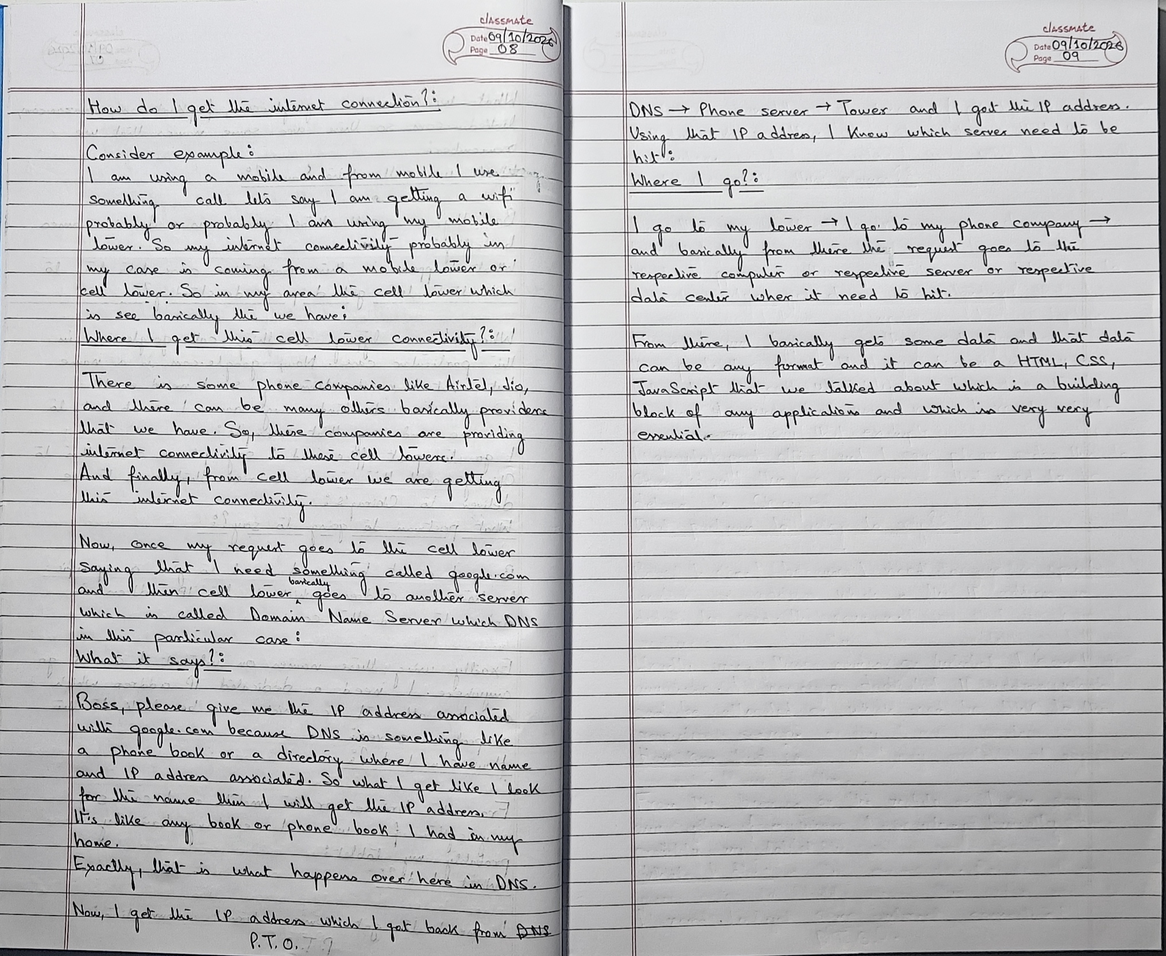
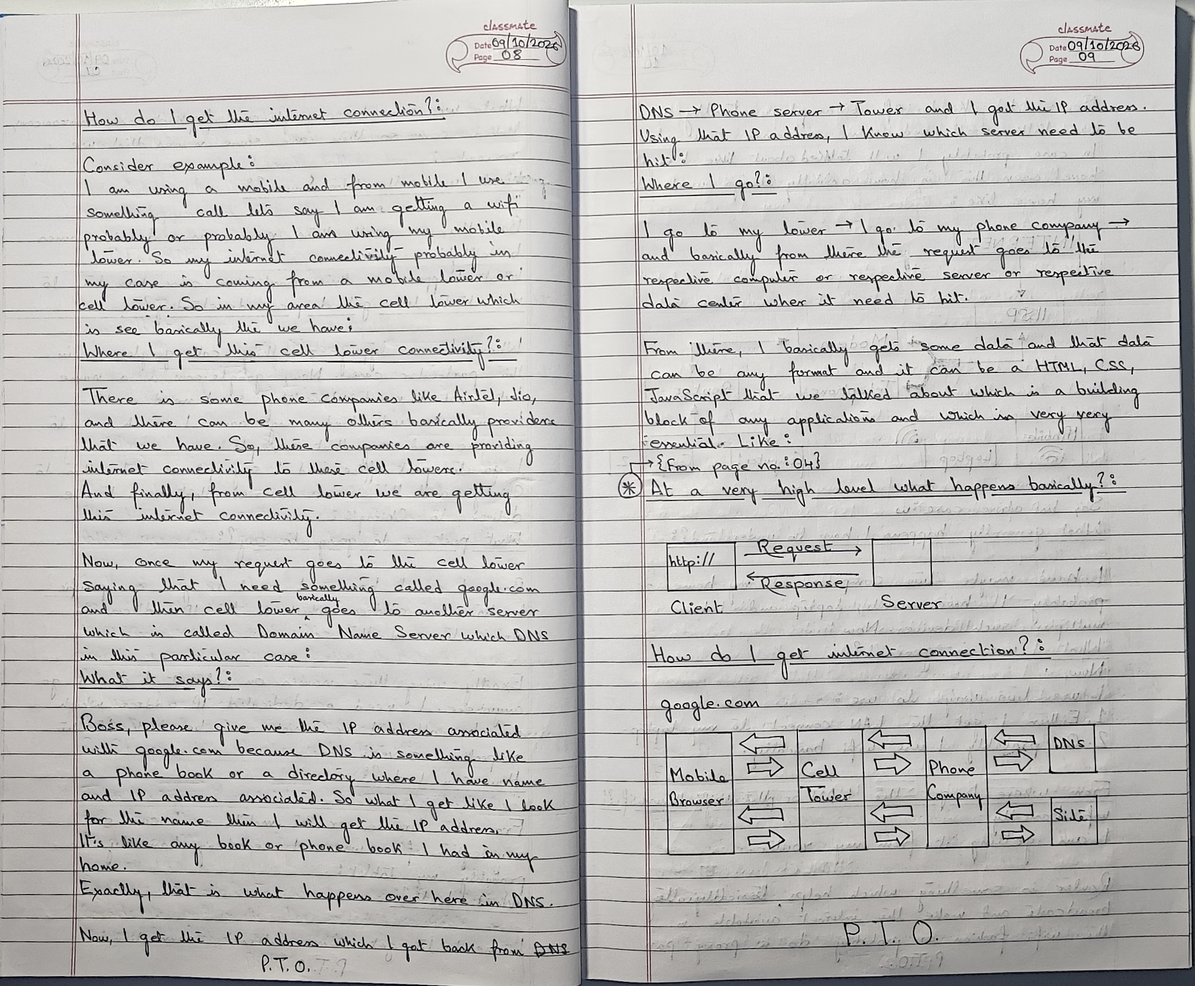
Expand web networking notes and add scans
Add notebook scans for pages 10–15, update page 8–9, and extend the web-how-it-works notes with explanations of mobile and home network connectivity, DNS, request flow, and wired networks.

Changed region(s): [[0.0, 0.0, 1.0, 1.0], [0.2172, 0.0, 0.3103, 0.0312]]

diff --git a/src/networking/how-the-web-works/README.md b/src/networking/how-the-web-works/README.md
@@ -255,3 +255,167 @@ Using that IP address, I know which server needs to be hit.
 I go to my tower → I go to my phone company → and basically from there the request goes to the respective computer or respective server or respective data center where it needs to hit.
 
 From there, I basically get some data and that data can be any format and it can be a HTML, CSS, JavaScript that we talked about, which is a building block of any application and which is very, very essential.
+
+### Example: using a mobile phone
+
+Suppose I am using a mobile phone and getting Wi-Fi, or using my mobile tower. My internet connectivity may be coming from a mobile tower or cell tower.
+
+### Where do I get this cell-tower connectivity?
+
+There are phone companies like Airtel, Jio, and many others. These companies provide internet connectivity to cell towers. Finally, we get internet connectivity from the cell tower.
+
+When my request goes to the cell tower, it says that it needs something from `google.com`. The cell tower sends the request to another server called the **Domain Name Server (DNS)**.
+
+### What does DNS say?
+
+“Boss, please give me the IP address associated with `google.com`.”
+
+DNS is like a phone book or directory where a name and its IP address are associated. When I look up a name, I get its IP address, just as I might look up a name in a book or phone book at home.
+
+That is exactly what happens with DNS. I get the IP address back from DNS.
+
+The DNS returns an IP address. Using that IP address, I know which server needs to be hit.
+
+### Where does the request go?
+
+I go to my tower → my phone company → the respective computer/server or data centre that the request needs to reach.
+
+From there, I get some data. That data can be in any format, such as HTML, CSS, or JavaScript. These are building blocks of an application and are essential.
+
+### At a very high level, what happens?
+
+The diagram shows:
+
+- **Client** sends a **Request** to the **Server**.
+- **Server** sends a **Response** back to the **Client**.
+- The client URL is represented as `http://`.
+
+### How do I get an internet connection?
+
+For `google.com`, the illustrated path is:
+
+`Mobile Browser ⇄ Cell Tower ⇄ Phone Company ⇄ DNS`
+
+The diagram also shows the DNS and the site/server, with arrows indicating requests and responses travelling between the mobile browser, cell tower, phone company, DNS, and site.
+
+Similar examples can be discussed, including more advanced cases. This is how things might work at home.
+
+### Home network diagram
+
+```text
+INTERNET
+   |
+  ISP
+   |
+   +---- Modem ---- Router
+   |                  |
+Telephone             +---- Computer 1
+                      +---- Computer 2
+                      +---- Laptop (Wi-Fi)
+                      +---- Mobile (Wi-Fi)
+```
+
+### What generally happens?
+
+I may have two computers at home, or a mobile, laptop, and multiple other devices.
+
+### What do I use in general?
+
+I use two ways to connect:
+
+1. I connect my laptop using a **LAN** connection.
+2. Or I use **Wi-Fi**.
+
+### Where do I get the LAN or Wi-Fi connection?
+
+I get it from my **router**.
+
+A router helps broadcast and make the internet available through Wi-Fi, or it may perform a proxy-related function, as noted in the notebook.
+
+Using the LAN, I can access my laptops or computers, provided they are connected properly.
+
+Nowadays, I can get a direct **fiber-optic cable** from my operator, such as Jio, Airtel, etc., which provides fiber-optic connectivity at home.
+
+### How did internet connectivity work earlier?
+
+Earlier, people got internet through telephone wires. A telephone wire had to be available at home.
+
+### What were telephone wires used to do?
+
+Something had to convert the telephone-line signal into an internet signal. That device was called a **modem**.
+
+A modem was used to convert the telephone-line signal coming from the phone line into internet connectivity.
+
+Ultimately, the phone wires were provided by a service provider — the **Internet Service Provider (ISP)**. The phone company is not the internet itself; the ISP provides internet service.
+
+From the ISP, I can access the internet, reach DNS, reach a specific IP address, and reach the respective places depending on what I am using.
+
+### At a high level, what happens when I type `google.com` or `flipkart.com`?
+
+These are the previous steps that happen in order to get my first web page rendered.
+
+Now, let’s dig deeper into the process and understand how the web works.
+
+### Request path
+
+The notebook describes this flow:
+
+1. From my laptop, the request goes to my router.
+2. From my router, it goes to the ISP.
+3. From the ISP, it goes to the Domain Name Server (DNS).
+4. The DNS returns the IP address.
+5. The ISP and network path carry the request toward the destination/server, using the respective IP address to reach the appropriate server.
+6. The server sends back the page and the required resources.
+7. Finally, the page is rendered in my application.
+
+The diagram is:
+
+```text
+Client ⇄ Router ⇄ ISP ⇄ Server
+                 ↕ DNS
+
+Server → Webpage {HTML, CSS, JavaScript}
+       → Computer, Laptop, Tablet & Phone
+```
+
+The response contains HTML, CSS, JavaScript, and other resources needed to render the page.
+
+### What does “between” mean?
+
+A lot of things happen between my computer and my router, from my router to my ISP, and from my ISP to DNS.
+
+### What do I get back from the server?
+
+I get HTML, CSS, and JavaScript. These are building blocks, along with many other things. The combination of these resources is used to render the page.
+
+### What are we going to do next?
+
+We are going to drill into each of these places — the router, ISP, etc. — and understand them better.
+
+### Connecting one laptop with another laptop
+
+One option that comes to mind is using a **LAN cable**.
+
+The diagram illustrates a **wired network**, with multiple computers/nodes connected to one another through wires.
+
+The diagram shows a wired network in which multiple devices/nodes are connected to one another.
+
+### How a wired network works
+
+A wired network can be connected in a way similar to the diagram. One wired device can be connected to another, and that device can be connected to another one.
+
+If I want to connect one laptop with a number of other laptops, a wire has to be connected to each laptop.
+
+If I need to connect eight laptops as shown, the resulting arrangement becomes a **network hell** — very difficult to manage and not what we want.
+
+We connect a large number of devices, with connections spread around the world. We have seen enough wires on roads and elsewhere.
+
+We do not want another set of network chaos in our society or country.
+
+### What do we do?
+
+The notebook begins this question at the bottom of page 14:
+
+“In order to make this networking better, we thought…”
+
+The explanation continues beyond the visible written content in the supplied images.
